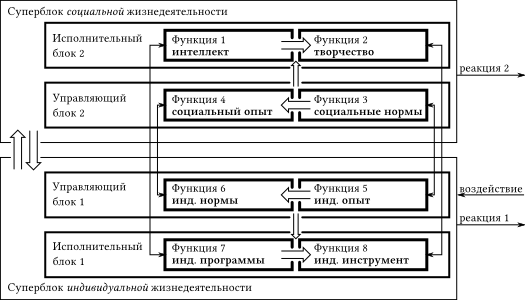
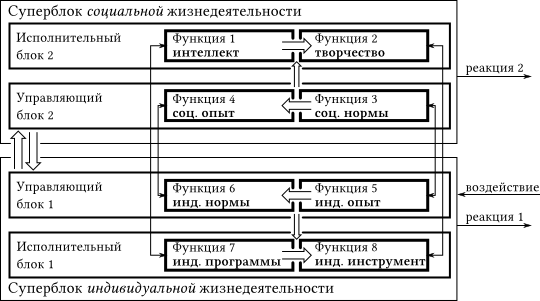
Более читабельный текст на диаграмме

diff --git a/protected/views/static/teorija/model-tima.php b/protected/views/static/teorija/model-tima.php
@@ -20,6 +20,6 @@ $this->pageTitle='Модель ТИМa | ' . Yii::app()->name;
 <p>Управляющие блоки <em>принимают решение</em>: «моя или не моя» задача, «умею или не умею» выполнить то, что требуется. Исполнительные блоки нужны для <em>исполнения</em> принятого решения. В них есть определенный набор правил или рабочая «программа» выполнения задания и рабочий инструмент для реализации результата.</p>
 <p>Весь информационный поток «падает» на всю структуру сразу. И каждая функция обрабатывает информацию соответственно своему назначению. Но включение функций (блоков, суперблоков) происходит в определенной последовательности. Сначала включаются блоки управления, потом они передают управление (не информацию!) блокам исполнения. Включение всей модели происходит в функции 5.</p>
 <figure class="standalone">
-	<img src="<?php echo Yii::app()->baseUrl; ?>/images/diagrams/normalized_structure.png" alt="Нормализованная структура психики" width="525" height="300" />
+	<img src="<?php echo Yii::app()->baseUrl; ?>/images/diagrams/normalized_structure.png" alt="Нормализованная структура психики" width="540" height="301" />
 	<figcaption>Нормализованная структура психики</figcaption>
 </figure>
